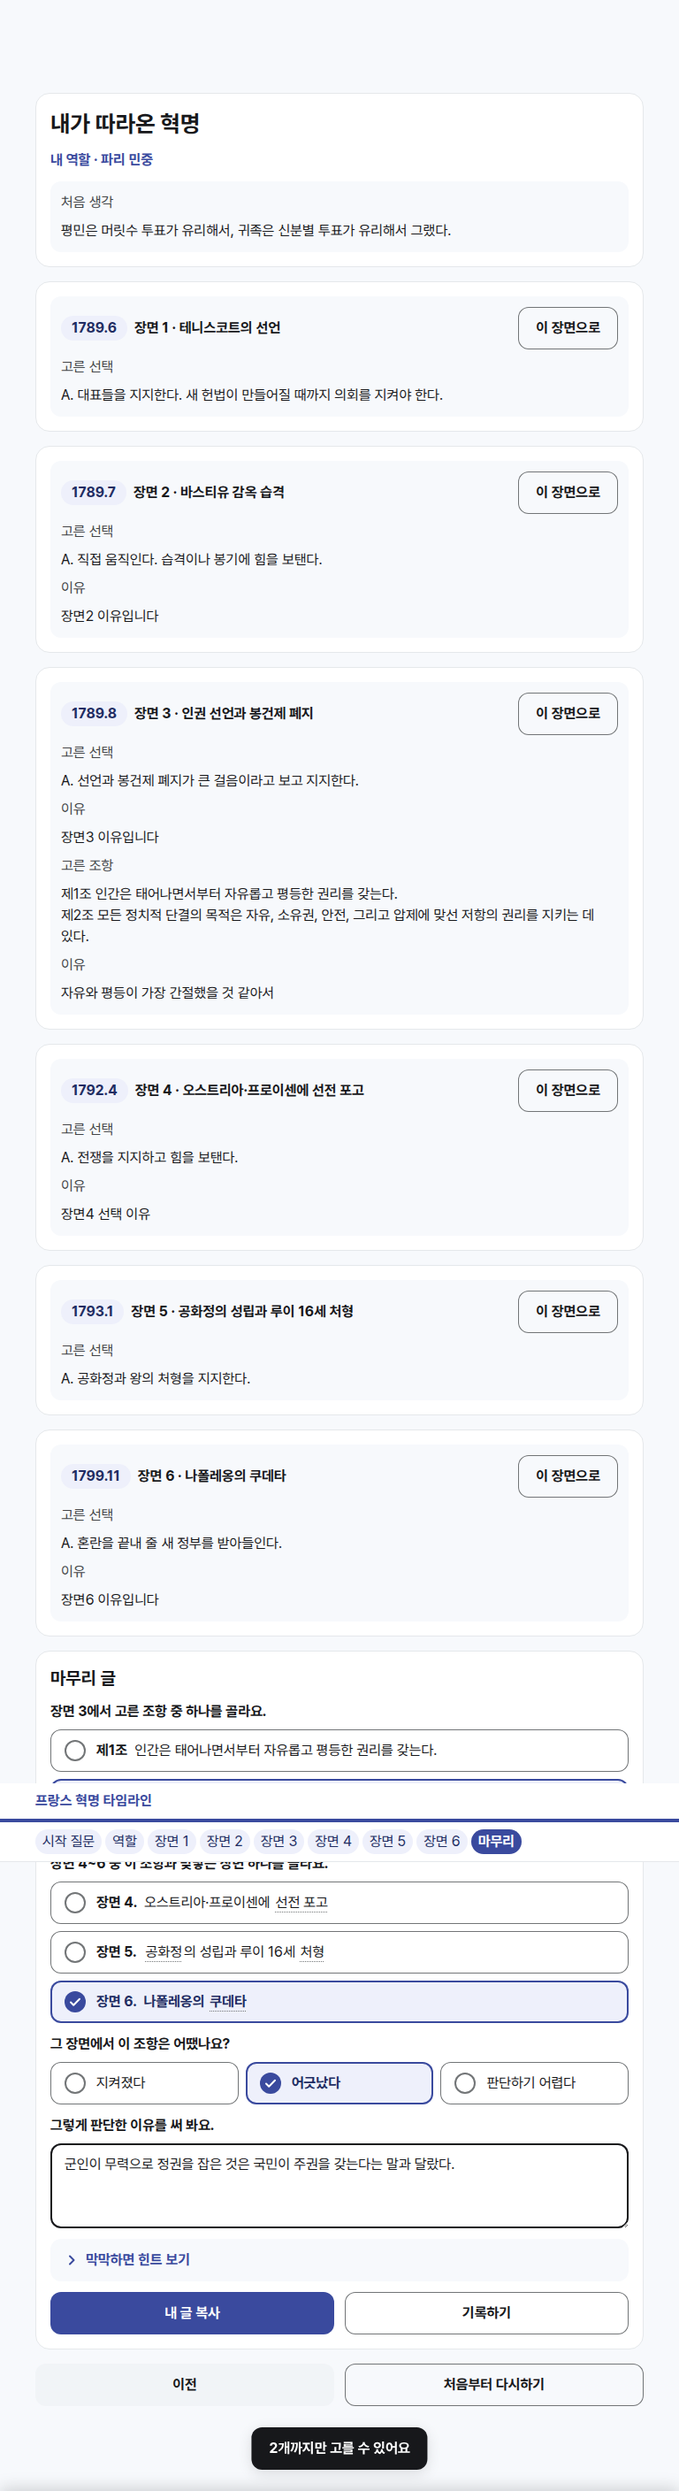
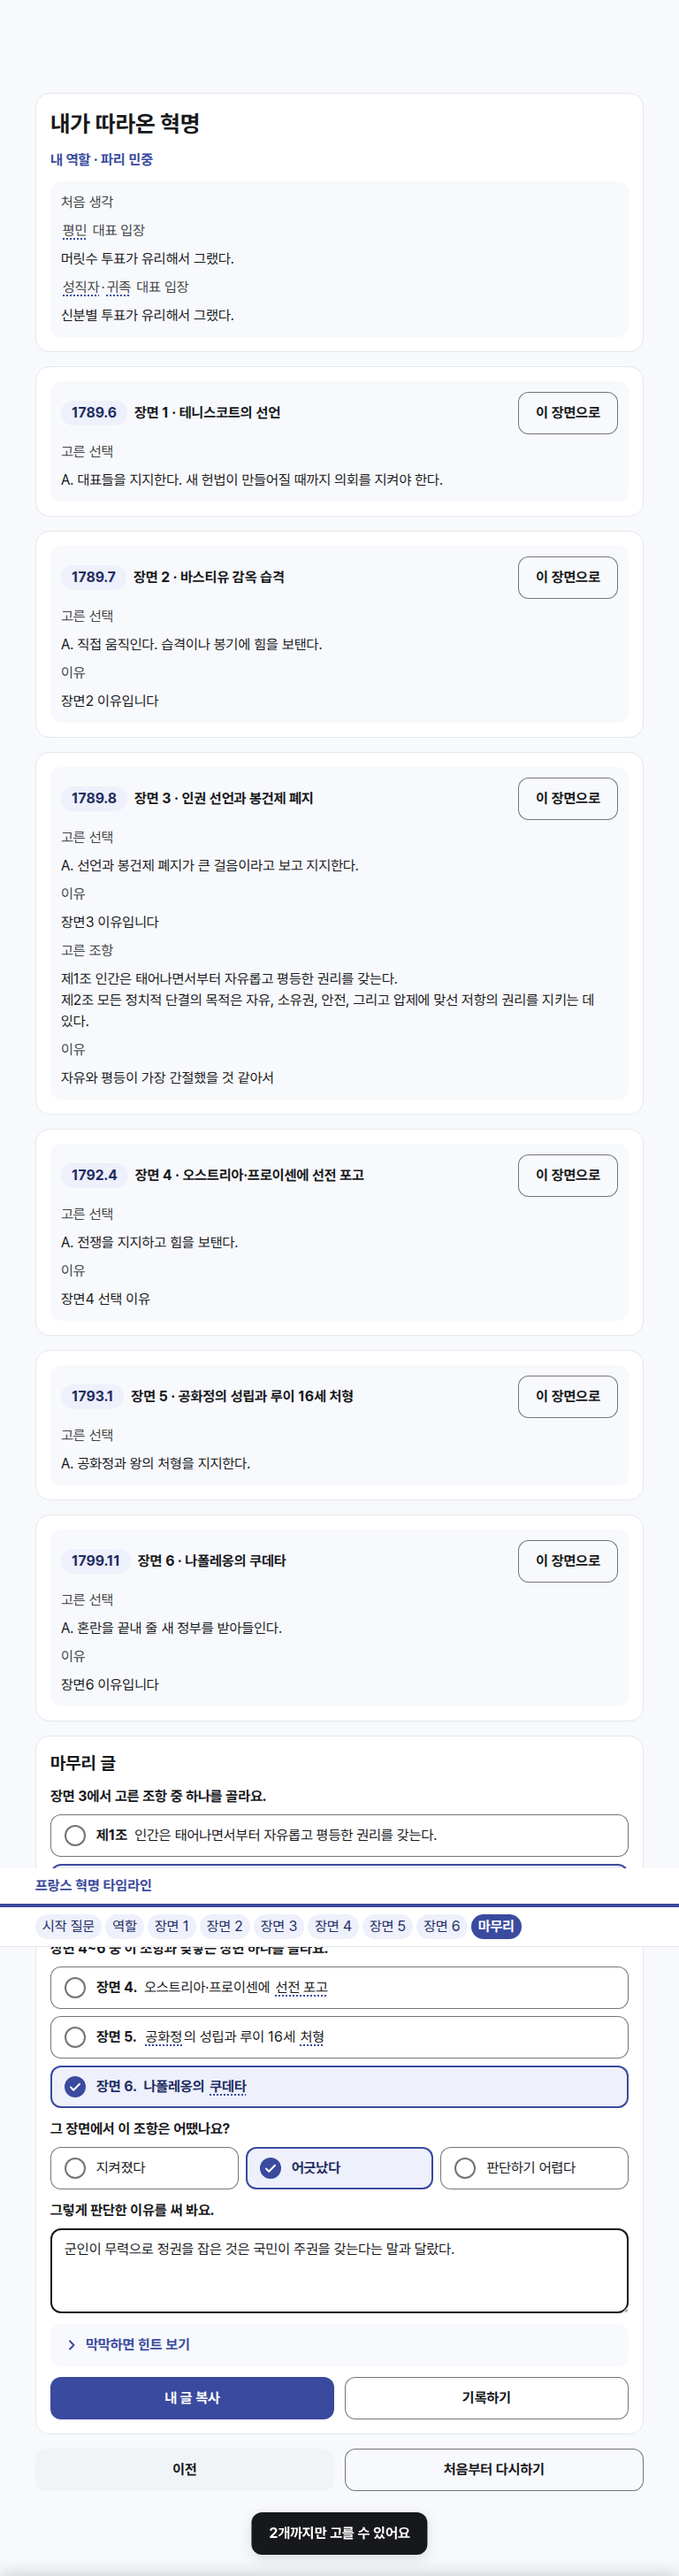
처음 생각을 평민 대표/성직자·귀족 대표 입장 두 칸(둘 다 선택)으로 나누고, 낱말 밑줄을 인디고 점선 1.5px·간격 3px로 조정
Claude-Session: https://claude.ai/code/session_01S7nQYC6sbmivJyphZxCUcg

diff --git a/app.js b/app.js
@@ -15,6 +15,8 @@ const UI = {
   needSid: '학번 5자리를 숫자로 적어 주세요',
   needName: '이름을 적어 주세요',
   introAnswerLabel: '내 생각 쓰기 (비어 있어도 시작할 수 있어요)',
+  introCommoner: '평민 대표 입장',
+  introNoble: '성직자·귀족 대표 입장',
   roleTitle: '역할을 골라요',
   roleDesc: '셋 다 제3 신분(평민)이에요. 고른 역할의 눈으로 장면을 따라가요.',
   needRole: '역할을 골라 주세요',
@@ -54,7 +56,7 @@ function storeSet() { try { localStorage.setItem(CONFIG.STORE_KEY, JSON.stringif
 function storeDel() { try { localStorage.removeItem(CONFIG.STORE_KEY); } catch (e) { /* 무시 */ } }
 
 function freshState(sid, name) {
-  return { sid: sid, name: name, intro: '', role: '', step: 'intro', answers: {}, clauses: [], clauseReason: '',
+  return { sid: sid, name: name, introA: '', introB: '', role: '', step: 'intro', answers: {}, clauses: [], clauseReason: '',
     finale: { clause: '', scene: '', verdict: '', reason: '' }, submitted: false, returnToFinale: false };
 }
 
@@ -190,8 +192,10 @@ function renderIntro(root) {
   sidInput.addEventListener('input', function () { state.sid = sidInput.value.replace(/\D/g, '').slice(0, 5); sidInput.value = state.sid; clearError(sidErr, sidInput); storeSet(); });
   nameInput.addEventListener('input', function () { state.name = nameInput.value; clearError(nameErr, nameInput); storeSet(); });
 
-  const ta = textareaField(state.intro, function (v) { state.intro = v; storeSet(); }, UI.introAnswerLabel);
-  ta.id = 'introAns';
+  const taA = textareaField(state.introA, function (v) { state.introA = v; storeSet(); }, UI.introCommoner);
+  taA.id = 'introA';
+  const taB = textareaField(state.introB, function (v) { state.introB = v; storeSet(); }, UI.introNoble);
+  taB.id = 'introB';
 
   root.appendChild(h('section', { class: 'card' }, [
     h('h1', { text: UI.introTitle }),
@@ -201,7 +205,9 @@ function renderIntro(root) {
   root.appendChild(h('section', { class: 'card' }, [
     h('h2', { text: UI.firstThought }),
     h('p', { text: INTRO.question }),
-    h('div', { class: 'field' }, [h('label', { class: 'field-label', for: 'introAns', text: UI.introAnswerLabel }), ta])
+    h('p', { class: 'muted', text: UI.introAnswerLabel }),
+    h('div', { class: 'field' }, [h('label', { class: 'field-label', for: 'introA', text: UI.introCommoner }), taA]),
+    h('div', { class: 'field' }, [h('label', { class: 'field-label', for: 'introB', text: UI.introNoble }), taB])
   ]));
   root.appendChild(h('section', { class: 'card' }, [
     h('h2', { text: UI.idTitle }),
@@ -340,7 +346,8 @@ function buildCopyText() {
   const role = roleObj();
   const lines = [];
   lines.push('[역할] ' + (role ? role.name : ''));
-  if (oneLine(state.intro)) lines.push('[처음 생각] ' + oneLine(state.intro));
+  const ia = oneLine(state.introA), ib = oneLine(state.introB);
+  if (ia || ib) lines.push('[처음 생각] ' + [ia ? UI.introCommoner.replace(' 입장', '') + ': ' + ia : '', ib ? UI.introNoble.replace(' 입장', '') + ': ' + ib : ''].filter(Boolean).join(' / '));
   SCENES.forEach(function (s) {
     const a = state.answers[s.id];
     if (!a || !a.opt) return;
@@ -379,7 +386,7 @@ async function submitRecord(btn) {
     diffSummary: '',
     reflection: finaleLine,
     // 주의: 백엔드 칭호 판정이 choicesJson.role 을 읽으므로 역할 키 이름은 persona 로 쓴다
-    choicesJson: JSON.stringify({ persona: state.role, intro: state.intro, scenes: state.answers, clauses: cl, clauseReason: state.clauseReason, finale: f })
+    choicesJson: JSON.stringify({ persona: state.role, intro: { commoner: state.introA, noble: state.introB }, scenes: state.answers, clauses: cl, clauseReason: state.clauseReason, finale: f })
   };
   Object.assign(body, window.FocusGuard ? FocusGuard.payload() : {});
   btn.disabled = true; btn.textContent = UI.submitting;
@@ -402,7 +409,9 @@ function renderFinale(root) {
   root.appendChild(h('section', { class: 'card' }, [
     h('h1', { text: UI.recapTitle }),
     h('p', { class: 'role-tag', text: UI.roleLabel + ' · ' + (role ? role.name : '') }),
-    oneLine(state.intro) ? h('div', { class: 'recap' }, [h('p', { class: 'q', text: UI.firstThought }), h('p', { class: 'a', text: state.intro })]) : null
+    (oneLine(state.introA) || oneLine(state.introB)) ? h('div', { class: 'recap' }, [h('p', { class: 'q', text: UI.firstThought }),
+      oneLine(state.introA) ? h('p', { class: 'q', text: UI.introCommoner }) : null, oneLine(state.introA) ? h('p', { class: 'a', text: state.introA }) : null,
+      oneLine(state.introB) ? h('p', { class: 'q', text: UI.introNoble }) : null, oneLine(state.introB) ? h('p', { class: 'a', text: state.introB }) : null]) : null
   ]));
 
   SCENES.forEach(function (s) {
@@ -518,6 +527,7 @@ function init() {
   const qName = (params.get('name') || '').trim();
   const saved = storeGet();
   if (saved && saved.step && STEPS.indexOf(saved.step) >= 0 && (!qSid || qSid === saved.sid)) state = Object.assign(freshState('', ''), saved);
+  if (saved && saved.intro && !state.introA && !state.introB) state.introA = saved.intro;
   if (qSid && !state.sid) state.sid = qSid;
   if (qName && !state.name) state.name = qName;
   if (PREVIEW) {

diff --git a/index.html b/index.html
@@ -4,7 +4,7 @@
 <meta charset="utf-8">
 <meta name="viewport" content="width=device-width, initial-scale=1">
 <title>프랑스 혁명 타임라인</title>
-<link rel="stylesheet" href="style.css?v=20261002a">
+<link rel="stylesheet" href="style.css?v=20261002b">
 </head>
 <body>
 <div id="previewBanner" class="preview-banner" hidden>미리보기 모드예요. 기록은 저장되지 않아요</div>
@@ -20,9 +20,9 @@
 <div id="toast" class="toast" role="status" aria-live="polite"></div>
 <div id="modalRoot"></div>
 
-<script src="snippets/focus_guard.js?v=20261002a"></script>
-<script src="snippets/glossary.js?v=20261002a"></script>
-<script src="data.js?v=20261002a"></script>
-<script src="app.js?v=20261002a"></script>
+<script src="snippets/focus_guard.js?v=20261002b"></script>
+<script src="snippets/glossary.js?v=20261002b"></script>
+<script src="data.js?v=20261002b"></script>
+<script src="app.js?v=20261002b"></script>
 </body>
 </html>

diff --git a/style.css b/style.css
@@ -192,4 +192,4 @@ details > .details-body { padding: 0 var(--x4) var(--x4); display: flex; flex-di
 }
 
 button.term { padding: 10px 2px; margin: -10px 0; font-size: inherit; line-height: inherit; font-weight: inherit; color: inherit;
-  text-decoration-style: dotted; text-decoration-thickness: 1px; text-decoration-color: var(--stroke-neutral-muted); text-underline-offset: 5px; }
+  text-decoration-style: dotted; text-decoration-thickness: 1.5px; text-decoration-color: var(--stroke-brand-solid); text-underline-offset: 3px; }
